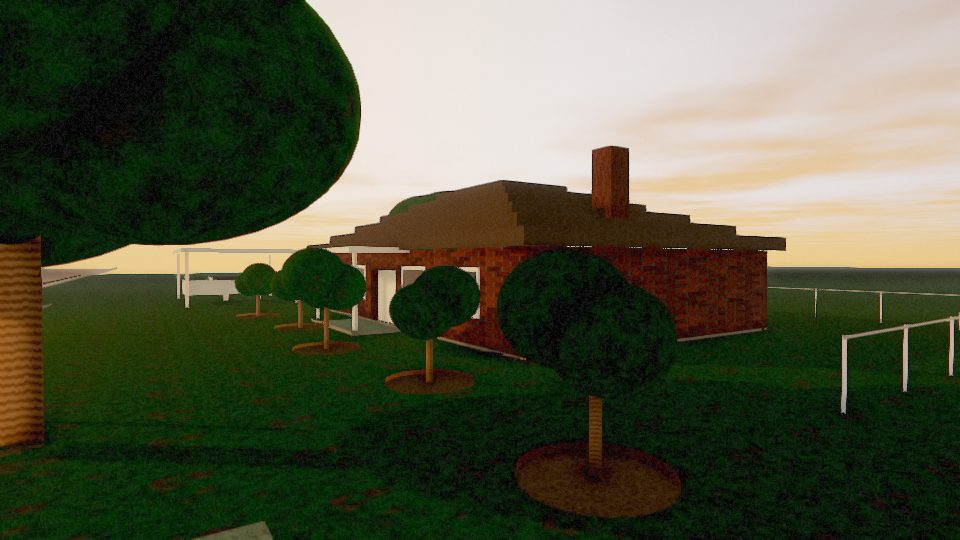
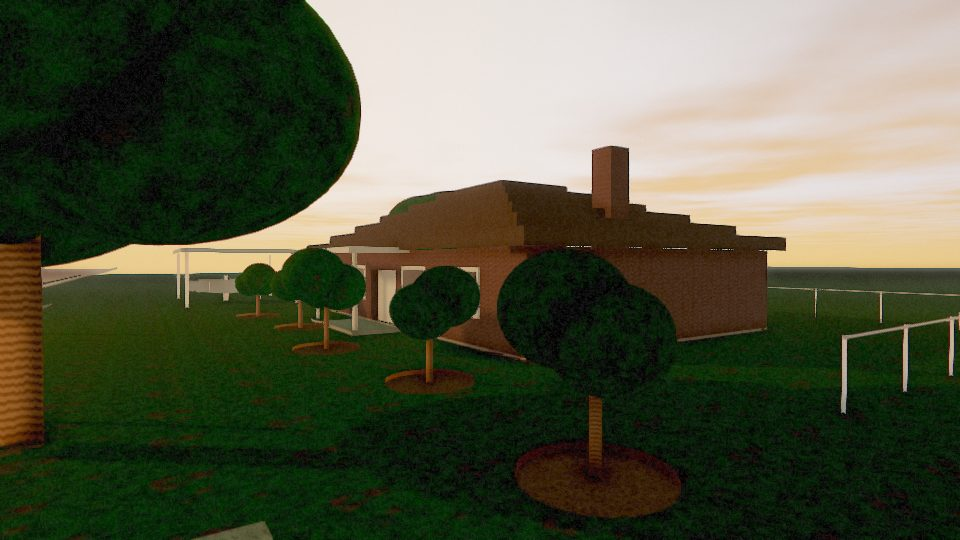
Coastline: brick that is brick, boats that are boats, and its own radio
The brick tint is a PALE CYAN, which looks like a mistake and is not.
The brick recipe decodes to about (0.216, 0.065, 0.045) linear: its green
is 30 per cent of its red and its blue 21 per cent, where real brick is
nearer 50 and 39. So the recipe is not merely red, it is about 1.7x too
red in green and 1.9x in blue, and no warm tint can correct that -- a
tint only takes light away. Holding red DOWN relative to the other two IS
a cyan. 0xc2f5ff lands the wall at (0.117, 0.059, 0.045): brick's own
ratios instead of a traffic light.

uvScale 22 and not 2.6 for the same walls. It is tiles per FACE, the
recipe lays eight courses to a tile, and the ranch's front is nineteen
metres: at 2.6 a course was nearly a metre tall, which is why the houses
read as painted blocks rather than as brick. It was lowered to 2.6
earlier in this session on a bad reading of the same render -- the
cross-hatch was one tile stretched, not many tiles crowded.

Both boats were a single box, and a box on water is a crate on water.
They are hulls now: slices that taper to a point at the bow and square
off at the transom, a gunwale round the rim so the thing has a lip, a
raked screen, and an outboard hanging off the back.

Two more conductor mistakes of the same family as the staircase. The
benches, the outboard and the trailer were metalness 1 -- but paint is a
dielectric, and at metalness 1 they have no diffuse at all and read as
dark cut-outs lit by nothing but the reflection probe. A park bench is
[…]

diff --git a/site/games/coastline.js b/site/games/coastline.js
@@ -129,11 +129,30 @@ const MAT = {
      the same hole the gun metals were in. */
   galv: { color: 0xd4dade, texture: 'metal', roughness: 0.52, metalness: 1 },
   steelDark: { color: 0xa8b0b6, texture: 'metal', roughness: 0.58, metalness: 1 },
-  /* Faintly COOL, which looks wrong in the source and is right on the
-     wall: the brick recipe averages #80493b, so a warm tint on top of it
-     gave a fire engine. This lands near a muted brick brown. */
-  brick: { color: 0xb4b4ae, texture: 'brick', roughness: 0.93, metalness: 0, uvScale: 2.6 },
-  brickPale: { color: 0xcfcdc4, texture: 'brick', roughness: 0.93, metalness: 0, uvScale: 2.6 },
+  /* PAINTED iron -- the benches, the outboard, the trailer. metalness 0,
+     because paint is a dielectric: at 1 these have no diffuse at all and
+     read as dark grey-blue cut-outs lit by nothing but the reflection
+     probe, which is what made a park bench look like a hole. */
+  ironPaint: { color: 0x5f6a63, texture: 'metal', roughness: 0.72, metalness: 0 },
+  /* A PALE CYAN, to make a red wall. This looks like a mistake and is
+     not, and it is worth the arithmetic because guessing at it produced a
+     fire engine twice.
+
+     The brick recipe decodes to about (0.216, 0.065, 0.045) linear: its
+     green is 30 per cent of its red and its blue 21 per cent. Real brick
+     is nearer 50 and 39. So the recipe is not merely red, it is about
+     1.7x too red in green and 1.9x in blue, and no warm tint can fix
+     that -- a tint can only take light away. The correction has to hold
+     red DOWN relative to the other two, which is a cyan. 0xc2f5ff lands
+     the wall at (0.117, 0.059, 0.045): a brick red with brick's own
+     ratios rather than a traffic light.
+
+     uvScale 22, not 2.6. It is tiles per FACE, the recipe lays 8 courses
+     to a tile, and the ranch's front is nineteen metres: at 2.6 that is a
+     course nearly a metre tall, which is what made the walls read as
+     painted blocks. At 22 a course is about eleven centimetres. */
+  brick: { color: 0xc2f5ff, texture: 'brick', roughness: 0.93, metalness: 0, uvScale: 22 },
+  brickPale: { color: 0xa6f9ff, texture: 'brick', roughness: 0.93, metalness: 0, uvScale: 22 },
   shingle: { color: 0x6f6158, texture: 'concrete', roughness: 0.95, metalness: 0, uvScale: 6 },
   /* The pavilion roof is the one strong colour on the whole map. */
   roofOrange: { color: 0xd07a42, texture: 'concrete', roughness: 0.9, metalness: 0, uvScale: 5 },
@@ -142,8 +161,16 @@ const MAT = {
      high tile count wraps the grain into diagonal banding, which is the
      barber's pole the gun stocks had. */
   deck: { color: 0xa08464, texture: 'wood', roughness: 0.9, metalness: 0, uvScale: 1.3 },
-  white: { color: 0xdcd8cc, texture: 'smooth', roughness: 0.8, metalness: 0 },
-  canvas: { color: 0xd8d2c0, texture: 'fabric', roughness: 0.96, metalness: 0, uvScale: 3 },
+  /* Weathered white paint, not fresh white. On the smooth recipe, which
+     is neutral, 0xdcd8cc is 72 per cent reflectance -- brighter than
+     anything outdoors at dusk -- and it is on every post, rail, door and
+     roof out here, so the slip and the pier came out as one pale mass
+     with the sky. */
+  white: { color: 0xb4b0a4, texture: 'smooth', roughness: 0.8, metalness: 0 },
+  /* Painted metal roofing: pale, but a coat of paint rather than a
+     mirror, so it takes a colour instead of the sky. */
+  roofMetal: { color: 0x9fa39c, texture: 'metal', roughness: 0.62, metalness: 0 },
+  canvas: { color: 0xbcb49e, texture: 'fabric', roughness: 0.96, metalness: 0, uvScale: 3 },
   glass: { color: 0x2e3a42, texture: 'smooth', roughness: 0.18, metalness: 0 },
   trunk: { color: 0x9c8570, texture: 'wood', roughness: 0.96, metalness: 0, uvScale: 3 },
   /* Foliage, on the grass recipe, so the same white-tint rule applies.
@@ -215,6 +242,39 @@ const WINDOWS = [
   // And the one on the east.
   { id: 'CE', room: 'green', inside: [36.0, 0, -20.0], sillAt: [39.0, 1.15, -20.0], pad: [43.0, 0, -32.0], face: 'E', wz: [-21.4, -18.6] },
 ];
+
+/* ---------------- what the radio says here ----------------
+
+   The operator calls you by the place you are standing in, and on the
+   bunker's lines that place is Bunker Nine. Played on a lawn beside a
+   lake, "lights out on the whole coast except you" and "more of them
+   coming down the hill" are somebody reading the wrong script -- and the
+   first thing the radio said on this map was a greeting to a building
+   forty miles away.
+
+   Only the lines that name the bunker or describe its ground are
+   replaced. Everything else -- the weapon patter, the low-ammo nagging,
+   the round-over jokes -- is the same two people and carries over. */
+const LINES = {
+  intro: [
+    ['radio', 'Coastline, this is control. Every light between here and the point is out except yours.'],
+    ['patch', 'Then somebody should tell whatever is coming up the ramp to knock first.'],
+    ['radio', 'Board the gaps, corporal. They came out of the water once already.'],
+  ],
+  roundStart: [
+    [['radio', 'More of them out past the pilings. I count... plenty.']],
+    [['patch', 'Reload, breathe. Same song, louder verse.']],
+    [['radio', 'They used to live here, you know. They just do not remember moving out.']],
+    [['patch', 'Boards will not hold forever. Good thing neither will they.']],
+    [['radio', 'They are coming up the ramp again. Do keep the noise up.']],
+  ],
+  /* The power lines are the other pair that describe ground this map does
+     not have: there is no generator out here and nothing to crank. The
+     lamps along the seawall are simply lit. */
+  powerStart: [['patch', 'Nothing out here to switch on. The lamps are already burning.']],
+  power: [['radio', 'You have light, Coastline. Whether that is a comfort is your business.']],
+  gameOver: [['radio', 'Rest now, Coastline. I will keep a light on for the next one.']],
+};
 
 /* ---------------- what you can buy, and where ----------------
 
@@ -319,6 +379,56 @@ function build(game, S) {
       material, physics: false });
     if (a) { a.name = name || 'post'; decos.push(a); }
     return a;
+  };
+
+  /* A boat.
+
+     Two of these on the map and both were a single box. A box on water
+     is a crate on water: what makes a small runabout read as one, at the
+     distance you see these from, is the taper to the bow and the fact
+     that the top of it is open. So: slices along its length, narrowing
+     to a point at one end and squared off at the other, a gunwale strip
+     around the rim so the hull has a lip, a raked windscreen, and an
+     outboard hanging off the transom.
+
+     `yaw` is only ever 0 or 90 here -- the slip runs along Z and the
+     trailer under the carport along it too -- so the axis is a flag
+     rather than a rotation, which keeps every piece axis-aligned and
+     out of the depth buffer's way. */
+  const boat = (cx, cy, cz, len, beam, hullMat, alongZ) => {
+    const n = 9, half = len / 2;
+    for (let i = 0; i < n; i++) {
+      const t0 = i / n, t1 = (i + 1) / n;
+      /* Width along the hull: full amidships, a point at the bow, and
+         about three quarters at the transom. sin gives the sheer without
+         a table of numbers. */
+      const wOf = (t) => beam * (0.14 + 0.86 * Math.pow(Math.sin(Math.PI * (0.12 + t * 0.80)), 0.75));
+      const w = Math.max(wOf(t0), wOf(t1)) / 2;
+      const a = -half + t0 * len, b = -half + t1 * len;
+      // The hull is deeper amidships than at either end.
+      const drop = 0.30 + 0.26 * Math.sin(Math.PI * t0);
+      if (alongZ) deco(cx - w, cx + w, cy - drop, cy + 0.22, cz + a, cz + b, hullMat, 'boat-hull');
+      else deco(cx + a, cx + b, cy - drop, cy + 0.22, cz - w, cz + w, hullMat, 'boat-hull');
+    }
+    // The gunwale: a lip round the rim, so the hull is not a solid lump.
+    const gw = beam / 2 + 0.04;
+    for (const side of [-1, 1]) {
+      if (alongZ) deco(cx + side * gw - 0.05, cx + side * gw + 0.05, cy + 0.20, cy + 0.30, cz - half * 0.82, cz + half * 0.72, mats.white, 'boat-gunwale');
+      else deco(cx - half * 0.82, cx + half * 0.72, cy + 0.20, cy + 0.30, cz + side * gw - 0.05, cz + side * gw + 0.05, mats.white, 'boat-gunwale');
+    }
+    // Windscreen, a third of the way back from the bow.
+    const wz = half * 0.16;
+    if (alongZ) deco(cx - beam * 0.34, cx + beam * 0.34, cy + 0.26, cy + 0.56, cz + wz, cz + wz + 0.06, mats.glass, 'boat-screen');
+    else deco(cx + wz, cx + wz + 0.06, cy + 0.26, cy + 0.56, cz - beam * 0.34, cz + beam * 0.34, mats.glass, 'boat-screen');
+    // And the outboard off the transom.
+    const ez = -half - 0.18;
+    if (alongZ) {
+      deco(cx - 0.16, cx + 0.16, cy - 0.10, cy + 0.34, cz + ez, cz + ez + 0.30, mats.ironPaint, 'outboard');
+      deco(cx - 0.09, cx + 0.09, cy - 0.52, cy - 0.08, cz + ez + 0.04, cz + ez + 0.22, mats.ironPaint, 'outboard-leg');
+    } else {
+      deco(cx + ez, cx + ez + 0.30, cy - 0.10, cy + 0.34, cz - 0.16, cz + 0.16, mats.ironPaint, 'outboard');
+      deco(cx + ez + 0.04, cx + ez + 0.22, cy - 0.52, cy - 0.08, cz - 0.09, cz + 0.09, mats.ironPaint, 'outboard-leg');
+    }
   };
 
   /* A hipped roof, which is the shape on every structure here: four
@@ -528,13 +638,21 @@ function build(game, S) {
     for (const dx of [-L.halfX + 0.3, L.halfX - 0.3]) for (const dz of [-L.halfZ + 0.3, 0, L.halfZ - 0.3]) {
       post(L.x + dx, L.z + dz, C.water.y - 1.7, L.eaves, 0.10, mats.galv, 'slip-post');
     }
-    hipRoof(L.x, L.z, L.halfX + 0.5, L.halfZ + 0.5, L.eaves, L.peak, mats.white, 'slip-roof', 5);
+    hipRoof(L.x, L.z, L.halfX + 0.5, L.halfZ + 0.5, L.eaves, L.peak, mats.roofMetal, 'slip-roof', 5);
     // Catwalks down each side, and the lift frame between them.
     slab(L.x - L.halfX, L.x - L.halfX + 0.9, C.water.y + 0.75, C.water.y + 0.90, L.z - L.halfZ, L.z + L.halfZ, mats.deck, 'slip-walk-w');
     slab(L.x + L.halfX - 0.9, L.x + L.halfX, C.water.y + 0.75, C.water.y + 0.90, L.z - L.halfZ, L.z + L.halfZ, mats.deck, 'slip-walk-e');
-    // The boat, under its cover. Hull, then the canvas over it.
-    deco(L.x - 1.5, L.x + 1.5, C.water.y + 0.55, C.water.y + 1.35, L.z - 3.1, L.z + 3.1, mats.white, 'slip-boat');
-    deco(L.x - 1.7, L.x + 1.7, C.water.y + 1.30, C.water.y + 1.95, L.z - 3.3, L.z + 3.3, mats.canvas, 'slip-cover');
+    // The boat on its lift, and the canvas pitched over it.
+    boat(L.x, C.water.y + 0.95, L.z, 6.2, 2.4, mats.white, true);
+    for (let i = 0; i < 4; i++) {
+      const t = i / 4, w = 1.75 * (1 - t * 0.74);
+      deco(L.x - w, L.x + w, C.water.y + 1.28 + t * 0.17, C.water.y + 1.45 + t * 0.17,
+        L.z - 3.4 + t * 0.25, L.z + 3.4 - t * 0.25, mats.canvas, 'slip-cover');
+    }
+    // The lift frame the boat is sitting on: two bunks under the hull.
+    for (const dx of [-1.15, 1.15]) {
+      deco(L.x + dx - 0.09, L.x + dx + 0.09, C.water.y + 0.30, C.water.y + 0.46, L.z - 2.6, L.z + 2.6, mats.steelDark, 'lift-bunk');
+    }
   }
 
   /* ---------------- the buildings ----------------
@@ -640,8 +758,7 @@ function build(game, S) {
       post(K.x + dx, K.z + dz, 0, K.h, 0.09, mats.galv, 'carport-post');
     }
     deco(K.x - K.w / 2, K.x + K.w / 2, K.h, K.h + 0.22, K.z - K.d / 2, K.z + K.d / 2, mats.white, 'carport-roof');
-    slab(K.x - 1.6, K.x + 1.6, 0.55, 1.45, K.z - 2.9, K.z + 2.9, mats.white, 'carport-boat');
-    deco(K.x - 1.3, K.x + 1.3, 1.42, 1.62, K.z - 2.2, K.z + 1.4, mats.glass, 'carport-boat-screen');
+    boat(K.x, 1.15, K.z, 5.6, 2.2, mats.white, true);
     for (const dz of [-1.6, 0.4]) post(K.x - 1.0, K.z + dz, 0, 0.5, 0.16, mats.steelDark, 'trailer-wheel');
   }
 
@@ -654,12 +771,12 @@ function build(game, S) {
   const bench = (x, z, rot) => {
     const w = 1.5, d = 0.55;
     const ax = rot ? d : w, az = rot ? w : d;
-    deco(x - ax / 2, x + ax / 2, 0.42, 0.50, z - az / 2, z + az / 2, mats.steelDark, 'bench-seat');
-    deco(x - ax / 2, x + ax / 2, 0.50, 0.95, z + (rot ? 0 : az / 2 - 0.06), z + (rot ? 0.08 : az / 2), mats.steelDark, 'bench-back');
+    deco(x - ax / 2, x + ax / 2, 0.42, 0.50, z - az / 2, z + az / 2, mats.ironPaint, 'bench-seat');
+    deco(x - ax / 2, x + ax / 2, 0.50, 0.95, z + (rot ? 0 : az / 2 - 0.06), z + (rot ? 0.08 : az / 2), mats.ironPaint, 'bench-back');
     for (const s of [-1, 1]) {
       const bx = rot ? x : x + s * (w / 2 - 0.18), bz = rot ? z + s * (w / 2 - 0.18) : z;
       deco(bx - 0.16, bx + 0.16, 0.10, 0.24, bz - 0.16, bz + 0.16, mats.concrete, 'bench-block');
-      deco(bx - 0.05, bx + 0.05, 0.24, 0.44, bz - 0.05, bz + 0.05, mats.steelDark, 'bench-leg');
+      deco(bx - 0.05, bx + 0.05, 0.24, 0.44, bz - 0.05, bz + 0.05, mats.ironPaint, 'bench-leg');
     }
   };
   bench(-6.4, -2.2, false);
@@ -673,8 +790,12 @@ function build(game, S) {
       material: mats.barrel, physics: false });
     a.name = 'barrel'; decos.push(a);
   }
-  // And the plank lying across the concrete.
-  deco(-1.2, -0.9, 0.12, 0.20, -6.5, -1.0, mats.deck, 'plank');
+  /* The plank propped against the seawall, off the fourth photograph.
+     Two and a half metres, not five and a half: at the first length it
+     ran from the wall most of the way to the treeline and read as a
+     kerb somebody had painted brown. */
+  deco(-1.35, -1.05, 0.12, 0.22, -2.9, -0.5, mats.deck, 'plank');
+  deco(-0.75, -0.45, 0.12, 0.22, -2.7, -0.4, mats.deck, 'plank');
 
   /* Young ornamental trees, each in its mulch ring, in the row the
      second photograph has them in. */
@@ -804,7 +925,7 @@ function applySky(game) {
 
 window.COASTLINE = {
   id: 'coastline', name: 'Coastline',
-  C, MAP, WINDOWS, MAT, SKY, PLAY, build, applySky,
+  C, MAP, WINDOWS, MAT, SKY, PLAY, LINES, build, applySky,
   /* Where you start: on the walk, a little up the lawn from the water,
      looking down it -- the view the fourth photograph is taken from. */
   spawn: { at: [0, 1.2, -16.0], yaw: 0 },

diff --git a/site/games/bunker-nine.js b/site/games/bunker-nine.js
@@ -2880,6 +2880,7 @@ function registerLoadedMaps() {
     windows: C.WINDOWS,
     spawn: C.spawn,
     play: C.PLAY,
+    lines: C.LINES,
     build: (game, S) => { C.applySky(game); C.build(game, S); },
     sky: (game) => C.applySky(game),
     /* One level, and it covers the lawn AND the water: a zombie coming up
@@ -2908,6 +2909,16 @@ function useMap(id) {
   MAPDEF = def;
   MAP = def.map;
   WINDOWS = def.windows;
+  /* The lines that name the place. The radio operator greets you by
+     where you are standing, and on the bunker's script that place is
+     Bunker Nine -- which, read out on a lawn beside a lake, is somebody
+     reading from the wrong page. A map overlays only the lines that name
+     it or describe its ground; the rest is the same two people.
+
+     Assigned over the shared table rather than kept beside it, which is
+     safe precisely because changing map reloads the page: there is one
+     map per load and no second script to contaminate. */
+  if (def.lines) Object.assign(LINES, def.lines);
   /* `main` is the one rectangle the game asks about without caring which
      map it is on -- "the far corner of the room" when the player is at
      the workbench, for one. A map that does not name a room `main` gets
